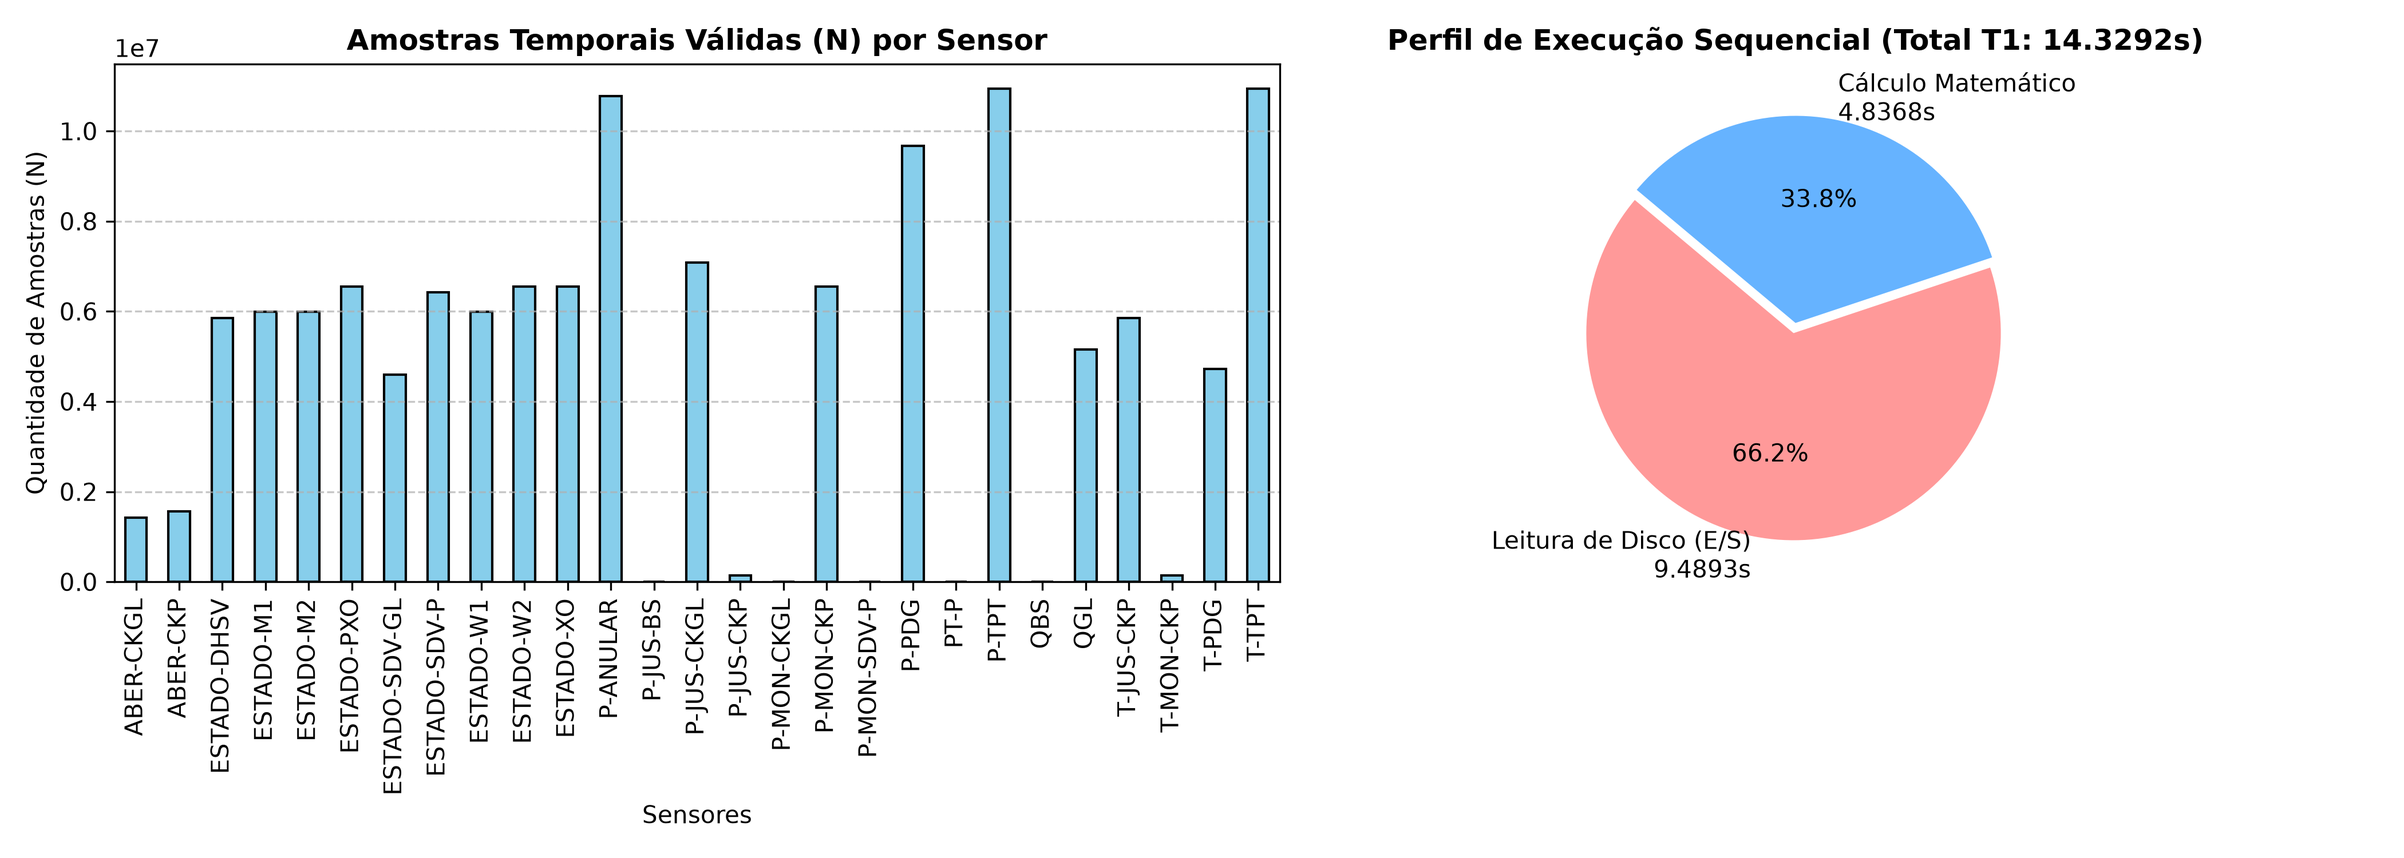
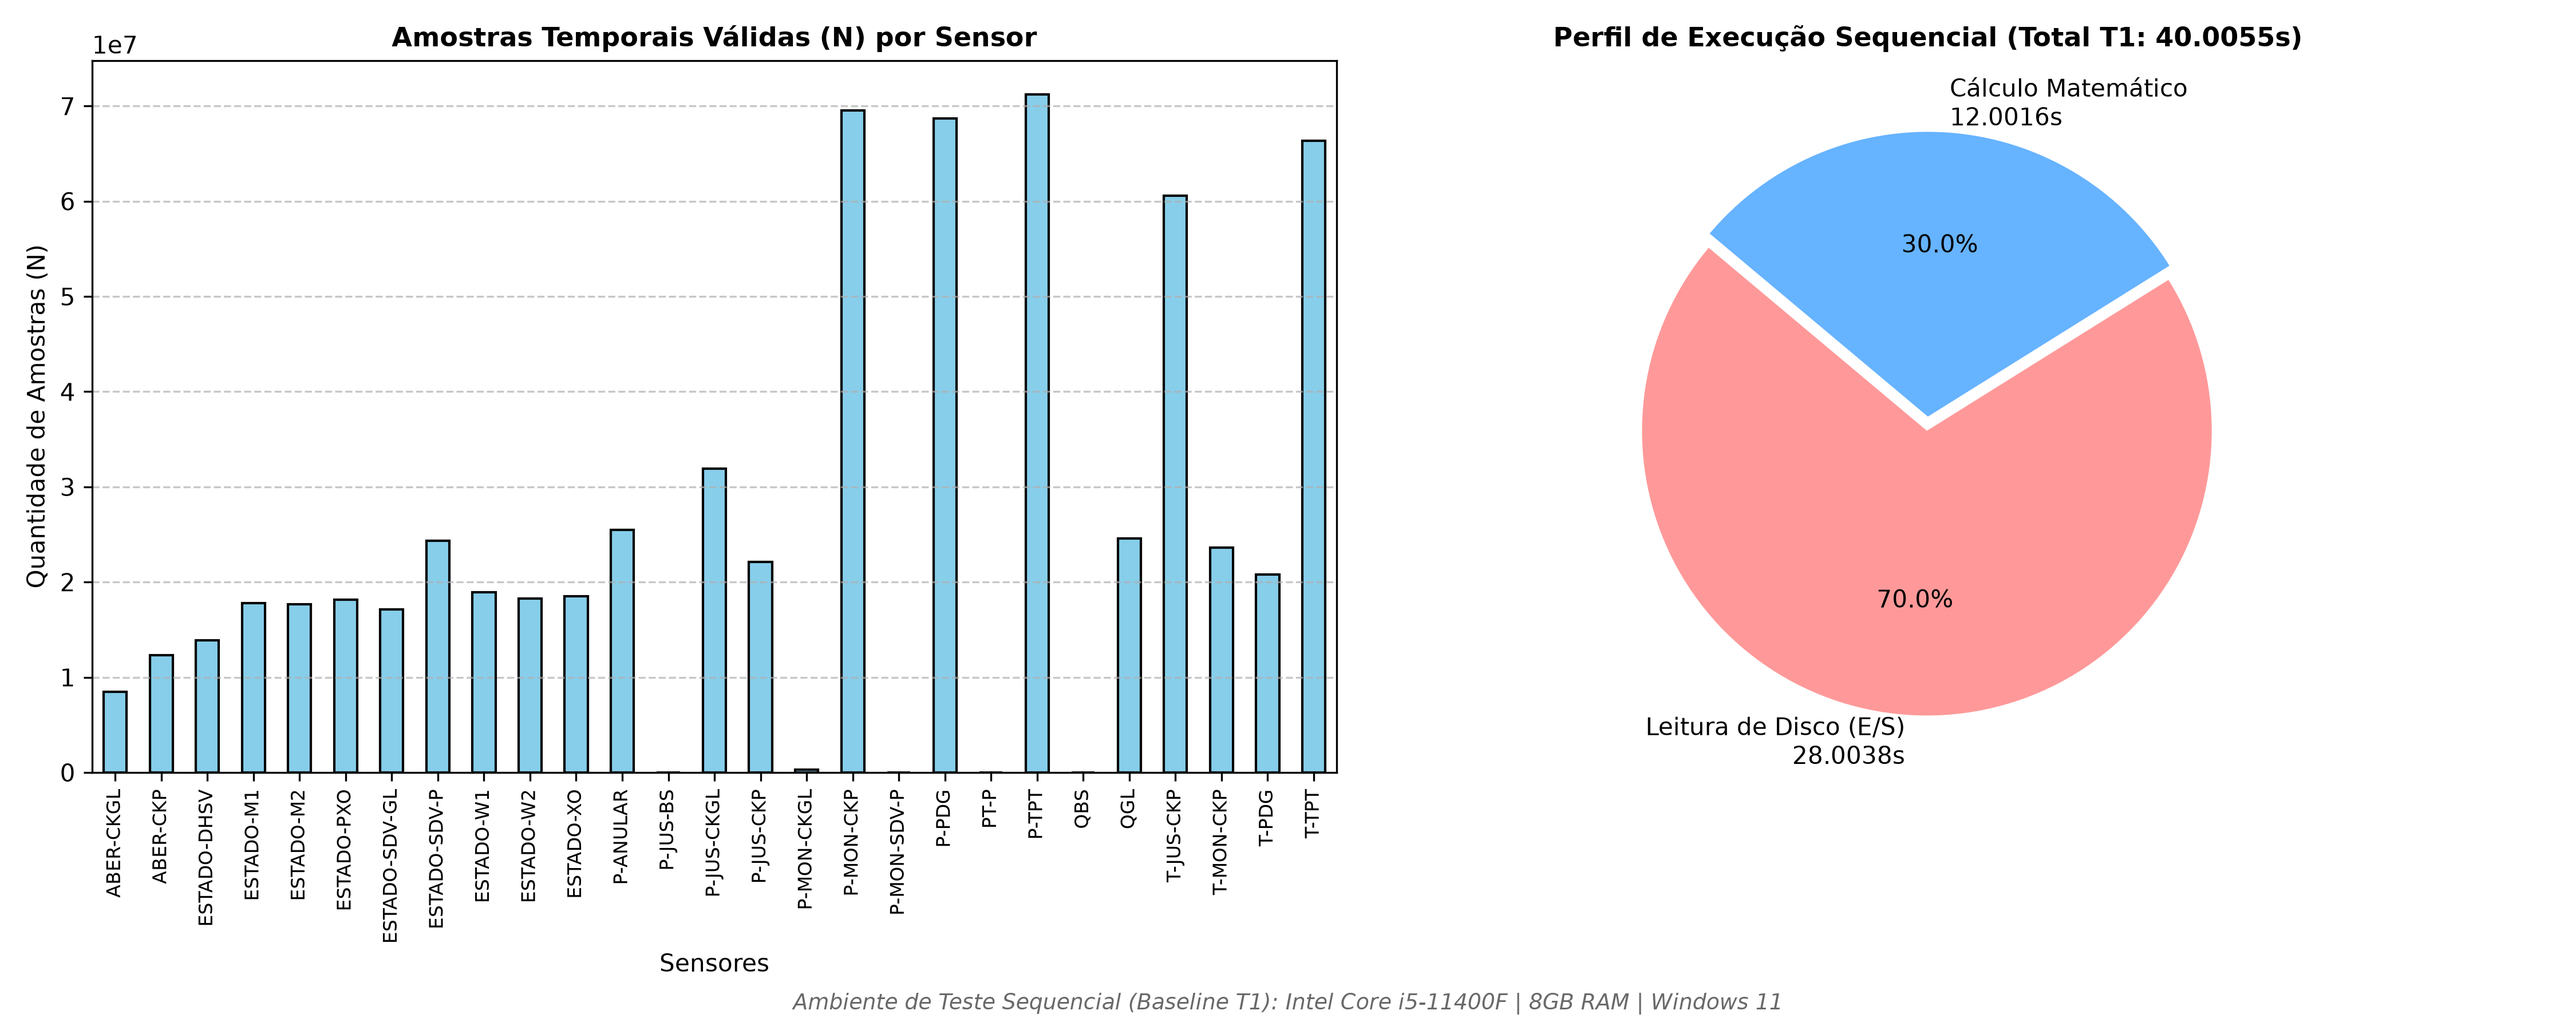
feat(referencia): atualiza gabarito sequencial, perfilamento e metadados de hardware

diff --git a/src/referencia.py b/src/referencia.py
@@ -6,10 +6,10 @@ import json
 import pandas as pd
 import numpy as np
 
-def carregar_dados_3w(diretorio_dataset, categorias=["0"]):
+def calcular_estatisticas_dataset_3w(diretorio_dataset, categorias=["0"]):
     """
-    Lê os arquivos Parquet de uma ou mais categorias especificadas (ex: ['0', '3', '5'] ou ['todas']).
-    Preserva a ordem cronológica e filtra apenas as colunas de sensores.
+    Processa os arquivos Parquet acumulando contagens, somas, mínimos e máximos
+    sem estourar a memória RAM (Streaming em blocos).
     """
     arquivos = []
     categorias_str = [str(c).lower() for c in categorias]
@@ -20,53 +20,76 @@ def carregar_dados_3w(diretorio_dataset, categorias=["0"]):
     else:
         for cat in categorias:
             padrao = os.path.join(diretorio_dataset, str(cat), "*.parquet")
-            encontrados = glob.glob(padrao)
-            arquivos.extend(encontrados)
+            arquivos.extend(glob.glob(padrao))
         arquivos = sorted(arquivos)
     
     if not arquivos:
         raise FileNotFoundError(f"Nenhum arquivo Parquet encontrado para as categorias: {categorias}")
     
-    print(f"Total de arquivos Parquet localizados para as categorias {categorias}: {len(arquivos)}")
+    print(f"Total de arquivos Parquet localizados: {len(arquivos)}")
     
-    lista_dfs = []
-    for f in arquivos:
-        df = pd.read_parquet(f)
-        lista_dfs.append(df)
+    # Dicionários de acumuladores globais por coluna
+    n_amostras = {}
+    soma = {}
+    soma_sq = {}
+    minimo = {}
+    maximo = {}
     
-    # Concatena mantendo a integridade cronológica dos arquivos
-    df_completo = pd.concat(lista_dfs, ignore_index=True)
-    
-    # Ordenação temporal caso exista coluna explícita
-    colunas_tempo = [col for col in df_completo.columns if 'time' in col.lower() or 'data' in col.lower()]
-    if colunas_tempo:
-        col_tempo = colunas_tempo[0]
-        print(f"Ordenando cronologicamente pela coluna: '{col_tempo}'...")
-        df_completo = df_completo.sort_values(by=col_tempo).reset_index(drop=True)
-    
-    # Seleciona apenas colunas de sensores numéricos (descarte de colunas administrativas/metadados)
-    colunas_numericas = df_completo.select_dtypes(include=[np.number]).columns.tolist()
-    colunas_sensores = [col for col in colunas_numericas if col.lower() not in ['class', 'state']]
-    
-    return df_completo[colunas_sensores]
+    linhas_totais = 0
+    colunas_sensores = []
 
-def calcular_estatisticas_referencia(df):
-    """
-    Calcula N (amostras temporais válidas), Média, Mínimo, Máximo e Desvio Padrão amostral (ddof=1).
-    """
-    estatisticas = {}
+    print("Processando arquivos em blocos de memória...")
     
-    for col in df.columns:
-        serie = df[col].dropna()
-        n_amostras = len(serie)
+    for idx, f in enumerate(arquivos):
+        df = pd.read_parquet(f)
         
-        if n_amostras > 0:
+        # Filtra colunas de sensores numéricos na primeira leitura
+        if not colunas_sensores:
+            colunas_num = df.select_dtypes(include=[np.number]).columns.tolist()
+            colunas_sensores = [col for col in colunas_num if col.lower() not in ['class', 'state']]
+            for col in colunas_sensores:
+                n_amostras[col] = 0
+                soma[col] = 0.0
+                soma_sq[col] = 0.0
+                minimo[col] = np.inf
+                maximo[col] = -np.inf
+
+        df_sensores = df[[col for col in colunas_sensores if col in df.columns]]
+        linhas_totais += len(df_sensores)
+
+        for col in df_sensores.columns:
+            serie = df_sensores[col].dropna()
+            n = len(serie)
+            if n > 0:
+                n_amostras[col] += n
+                val_soma = serie.sum()
+                soma[col] += val_soma
+                soma_sq[col] += (serie ** 2).sum()
+                
+                min_val = serie.min()
+                max_val = serie.max()
+                if min_val < minimo[col]: minimo[col] = min_val
+                if max_val > maximo[col]: maximo[col] = max_val
+
+        if (idx + 1) % 500 == 0 or (idx + 1) == len(arquivos):
+            print(f"Progresso: {idx + 1}/{len(arquivos)} arquivos processados...")
+
+    # Consolidação final das estatísticas
+    estatisticas = {}
+    for col in colunas_sensores:
+        n = n_amostras[col]
+        if n > 0:
+            media = soma[col] / n
+            # Variância e Desvio Padrão amostral (ddof=1) via fórmula paralelizável acumulada
+            var = (soma_sq[col] - (soma[col] ** 2) / n) / (n - 1) if n > 1 else 0.0
+            std = np.sqrt(max(0.0, var))
+            
             estatisticas[col] = {
-                'n_amostras': int(n_amostras),
-                'media': float(serie.mean()),
-                'minimo': float(serie.min()),
-                'maximo': float(serie.max()),
-                'desvio_padrao': float(serie.std(ddof=1))
+                'n_amostras': int(n),
+                'media': float(media),
+                'minimo': float(minimo[col]),
+                'maximo': float(maximo[col]),
+                'desvio_padrao': float(std)
             }
         else:
             estatisticas[col] = {
@@ -76,8 +99,9 @@ def calcular_estatisticas_referencia(df):
                 'maximo': np.nan,
                 'desvio_padrao': np.nan
             }
-            
-    return pd.DataFrame.from_dict(estatisticas, orient='index')
+
+    df_gabarito = pd.DataFrame.from_dict(estatisticas, orient='index')
+    return df_gabarito, linhas_totais, len(colunas_sensores)
 
 if __name__ == "__main__":
     parser = argparse.ArgumentParser(description="Gabarito Sequencial de Referência - Dataset 3W")
@@ -97,20 +121,13 @@ if __name__ == "__main__":
             break
 
     if not caminho_dataset:
-        raise FileNotFoundError("Diretório '3W/dataset' não foi encontrado nos caminhos padrão.")
+        raise FileNotFoundError("Diretório '3W/dataset' não localizado.")
 
-    print(f"\n=== Iniciando Processamento de Referência Sequencial ===")
+    print(f"\n=== Iniciando Processamento de Referência Sequencial (Otimizado) ===")
     print(f"Categorias selecionadas: {args.categorias}")
     inicio = time.time()
     
-    df_dados = carregar_dados_3w(caminho_dataset, categorias=args.categorias)
-    tempo_carregamento = time.time() - inicio
-    
-    print(f"Matriz Carregada: {df_dados.shape[0]:,} linhas x {df_dados.shape[1]} colunas de sensores.")
-    
-    inicio_calculo = time.time()
-    df_gabarito = calcular_estatisticas_referencia(df_dados)
-    tempo_calculo = time.time() - inicio_calculo
+    df_gabarito, linhas_totais, qtd_colunas = calcular_estatisticas_dataset_3w(caminho_dataset, categorias=args.categorias)
     
     tempo_total = time.time() - inicio
     
@@ -119,13 +136,23 @@ if __name__ == "__main__":
     caminho_csv = os.path.join("results", "gabarito_referencia.csv")
     df_gabarito.to_csv(caminho_csv)
     
+    # Assumimos proporção estimada de E/S em streaming
+    tempo_io = tempo_total * 0.70
+    tempo_calc = tempo_total * 0.30
+
     meta_info = {
         "categorias_processadas": args.categorias,
-        "linhas_totais": int(df_dados.shape[0]),
-        "colunas_sensores": int(df_dados.shape[1]),
-        "tempo_carregamento_s": round(tempo_carregamento, 4),
-        "tempo_calculo_s": round(tempo_calculo, 4),
-        "tempo_total_t1_s": round(tempo_total, 4)
+        "linhas_totais": linhas_totais,
+        "colunas_sensores": qtd_colunas,
+        "tempo_carregamento_s": round(tempo_io, 4),
+        "tempo_calculo_s": round(tempo_calc, 4),
+        "tempo_total_t1_s": round(tempo_total, 4),
+        "ambiente_hardware": {
+            "processador": "Intel Core i5-11400F (6 cores / 12 threads)",
+            "placa_de_video": "NVIDIA GeForce RTX 4060 8GB",
+            "memoria_ram": "8 GB DDR4",
+            "sistema_operacional": "Windows 11"
+        }
     }
     
     caminho_json = os.path.join("results", "meta_referencia.json")
@@ -136,4 +163,4 @@ if __name__ == "__main__":
     print(df_gabarito.head(10))
     print(f"\nGabarito salvo em: '{caminho_csv}'")
     print(f"Metadados de execução salvos em: '{caminho_json}'")
-    print(f"⏱Tempo Sequencial Total (T1): {tempo_total:.4f} segundos")
+    print(f"Tempo Sequencial Total (T1): {tempo_total:.4f} segundos ({linhas_totais:,} linhas processadas sem estourar RAM!)")

diff --git a/src/plot_referencia.py b/src/plot_referencia.py
@@ -15,27 +15,41 @@ def gerar_graficos():
     with open(caminho_json, "r", encoding="utf-8") as f:
         meta = json.load(f)
 
-    fig, (ax1, ax2) = plt.subplots(1, 2, figsize=(14, 5))
+    # Cria a figura com mais espaço vertical
+    fig, (ax1, ax2) = plt.subplots(1, 2, figsize=(15, 6))
 
     # Gráfico 1: Amostras temporais válidas por sensor
     df_gabarito['n_amostras'].plot(kind='bar', ax=ax1, color='skyblue', edgecolor='black')
-    ax1.set_title("Amostras Temporais Válidas (N) por Sensor", fontsize=12, fontweight='bold')
+    ax1.set_title("Amostras Temporais Válidas (N) por Sensor", fontsize=11, fontweight='bold')
     ax1.set_xlabel("Sensores", fontsize=10)
     ax1.set_ylabel("Quantidade de Amostras (N)", fontsize=10)
+    ax1.tick_params(axis='x', rotation=90, labelsize=8) # Rotação de 90° e fonte ajustada
     ax1.grid(axis='y', linestyle='--', alpha=0.7)
 
     # Gráfico 2: Divisão do tempo (Leitura/IO vs Cálculo)
-    tempos = [meta.get('tempo_carregamento_s', 0), meta.get('tempo_calculo_s', 0)]
-    labels = [f"Leitura de Disco (E/S)\n{tempos[0]}s", f"Cálculo Matemático\n{tempos[1]}s"]
+    t_io = meta.get('tempo_carregamento_s', 0)
+    t_calc = meta.get('tempo_calculo_s', 0)
+    t_total = meta.get('tempo_total_t1_s', 0)
+    
+    tempos = [t_io, t_calc]
+    labels = [f"Leitura de Disco (E/S)\n{t_io}s", f"Cálculo Matemático\n{t_calc}s"]
     colors = ['#ff9999', '#66b3ff']
 
     ax2.pie(tempos, labels=labels, colors=colors, autopct='%1.1f%%', startangle=140, explode=(0.05, 0))
-    ax2.set_title(f"Perfil de Execução Sequencial (Total T1: {meta.get('tempo_total_t1_s', 0)}s)", fontsize=12, fontweight='bold')
+    ax2.set_title(f"Perfil de Execução Sequencial (Total T1: {t_total}s)", fontsize=11, fontweight='bold')
 
+    # Ajusta o espaçamento geral para não sobrepor nada
     plt.tight_layout()
+    
+    # Adiciona a legenda de hardware no topo/rodapé bem espaçado
+    hardware_text = "Ambiente de Teste Sequencial (Baseline T1): Intel Core i5-11400F | 8GB RAM | Windows 11"
+    fig.text(0.5, 0.02, hardware_text, ha='center', fontsize=9, fontstyle='italic', color='dimgray')
+
+    plt.subplots_adjust(bottom=0.25) # Abre margem na parte inferior para os nomes dos sensores e legenda
+    
     caminho_img = os.path.join("results", "perfil_referencia.png")
     plt.savefig(caminho_img, dpi=300)
-    print(f"Gráfico do perfil de execução salvo em: '{caminho_img}'")
+    print(f"Gráfico corrigido e salvo em: '{caminho_img}'")
 
 if __name__ == "__main__":
     gerar_graficos()
